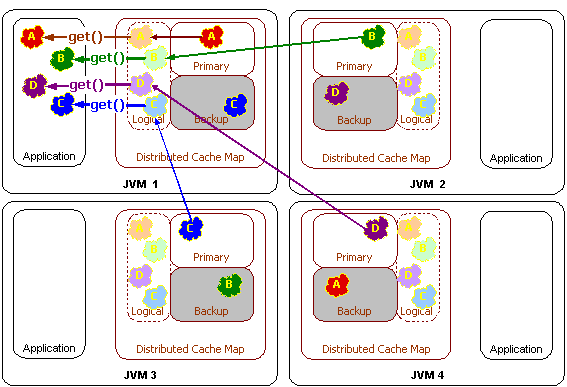
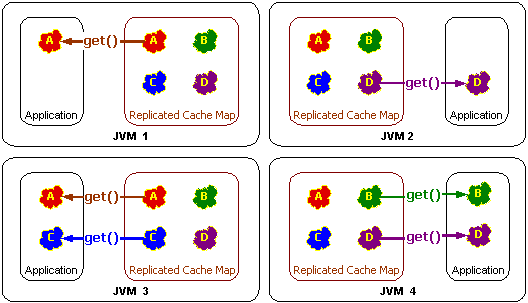
GitBook: [master] one page and 8 assets modified

diff --git a/coherence.md b/coherence.md
@@ -15,19 +15,52 @@ Coherence is organized as set of services. At the root is the Cluster service. A
 
 ## **C**ache types
 
-#### Distributed Caches <a id="COHDG-GUID-3C6188BB-8549-41DA-B520-97DD707DDD44"></a>
+### Distributed Caches
 
 A distributed, or partitioned, cache is a clustered, fault-tolerant cache that has linear scalability.Data is partitioned among all storage members of the cluster. For fault-tolerance, partitioned caches can be configured to keep each piece of data on one or more unique computers within a cluster. Distributed caches are the most commonly used caches in Coherence.
 
 #### Get and put operations:
 
-![Get Operations in a Distributed Cache](.gitbook/assets/image%20%2815%29.png)
+![Get Operations in a Distributed Cache](.gitbook/assets/image%20%2820%29.png)
 
-![Put Operations in a distributed Cache Environment](.gitbook/assets/image%20%2817%29.png)
+![Put Operations in a distributed Cache Environment](.gitbook/assets/image%20%2821%29.png)
 
 ![Failover in a Distributed Cache](.gitbook/assets/image%20%2814%29.png)
 
-![Local Storage in a Distributed Cache](.gitbook/assets/image%20%2820%29.png)
+![Local Storage in a Distributed Cache](.gitbook/assets/image%20%2823%29.png)
 
+### Replicated Caches
+
+A replicated cache is a clustered, fault tolerant cache where data is fully replicated to every member in the cluster.
+
+![Get Operation in a Replicated Cache](.gitbook/assets/image%20%2815%29.png)
+
+![Put Operation in a Replicated Cache](.gitbook/assets/image%20%2825%29.png)
+
+### Optimistic Caches
+
+An optimistic cache is a clustered cache implementation similar to the replicated cache implementation but without any concurrency control.This implementation offers higher write throughput than a replicated cache. It also allows an alternative underlying store for the cached data \(for example, a MRU/MFU-based cache\). However, if two cluster members are independently pruning or purging the underlying local stores, the stored content held by each member may be different.
+
+### Near Caches
+
+A near cache is a hybrid cache; it typically fronts a distributed cache or a remote cache with a local cache.Near cache invalidates front cache entries, using a configured invalidation strategy, and provides excellent performance and synchronization. Near cache backed by a partitioned cache offers zero-millisecond local access for repeat data access, while enabling concurrency and ensuring coherency and fail over, effectively combining the best attributes of replicated and partitioned caches.
+
+![Put Operations in a Near Cache](.gitbook/assets/image%20%2824%29.png)
+
+![Get Operations in a Near Cache](.gitbook/assets/image%20%2822%29.png)
+
+### View Caches
+
+A view cache is a clustered, fault tolerant cache that provides a local in-memory materialized view of data stored in a distributed and partitioned cache.
+
+![Put Operations in a View Cache](.gitbook/assets/image%20%2817%29.png)
+
+### Local Caches
+
+While it is not a clustered service, the local cache implementation is often used in combination with various clustered cache services as part of a near cache.
+
+### Remote Caches
+
+A remote cache describes any out-of-process cache accessed by a Coherence\*Extend client.All cache requests are sent to a Coherence proxy where they are delegated to a cache \(Replicated, Optimistic, Partitioned\). See [Overview of Coherence\*Extend](https://docs.oracle.com/pls/topic/lookup?ctx=en/middleware/standalone/coherence/14.1.1.0/develop-applications&id=COHCG5038) in Developing Remote Clients for Oracle Coherence.  
 
 
